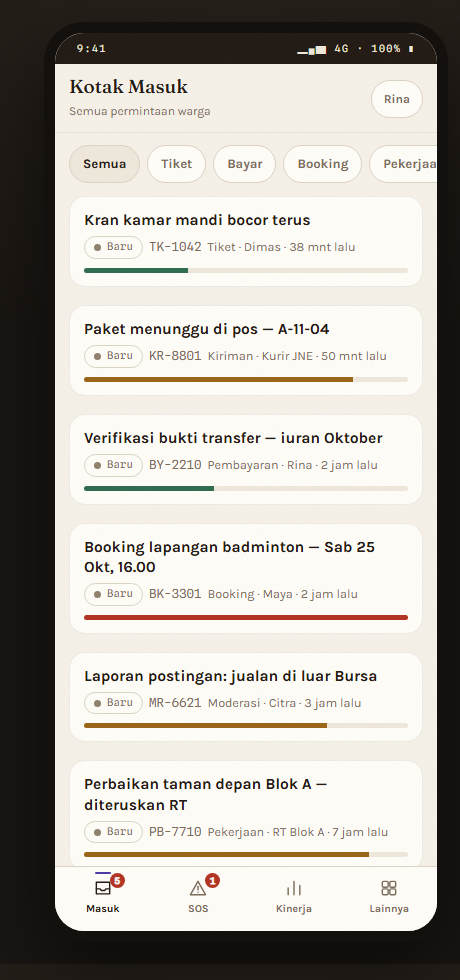
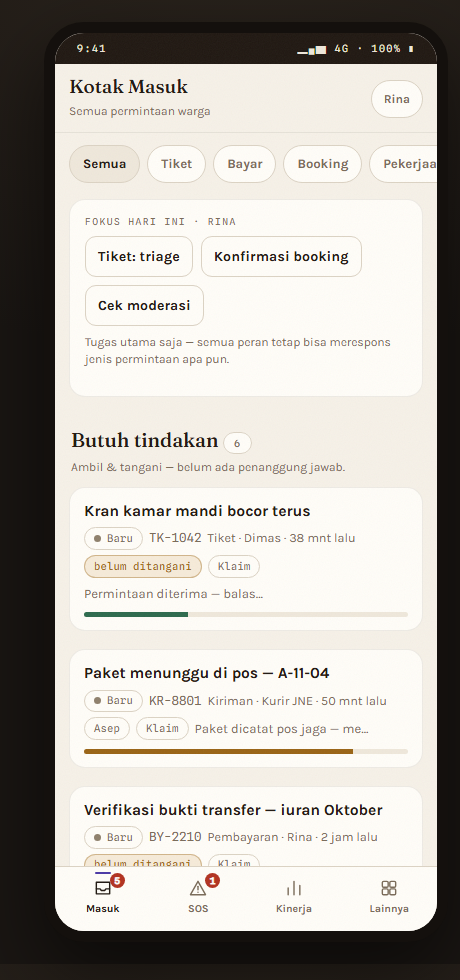
Inbox actionable/in-progress/info grouping, open cross-role response with PIC visibility, facility booking slot board + manual entry

Changed region(s): [[0.1826, 0.6735, 0.8826, 0.8878], [0.1522, 0.4286, 0.8826, 0.6429], [0.1826, 0.2143, 0.8826, 0.398]]

diff --git a/puri_console.html b/puri_console.html
@@ -94,6 +94,12 @@ nav.tabs .b{position:absolute;top:1px;right:calc(50% - 22px);background:var(--ba
 .worksw{display:flex;gap:8px;margin-top:6px}
 .worksw button{flex:1;background:var(--surf);border:1px solid var(--line);color:var(--mut);border-radius:11px;padding:10px 8px;font-weight:600;font-size:13.5px}
 .worksw button.on{background:var(--p);border-color:var(--p);color:#fff}
+.slot{flex:1;min-width:62px;background:var(--surf);border:1px solid var(--line);border-radius:11px;padding:8px 4px;font-family:var(--mono);font-size:11px;color:var(--txt);display:flex;flex-direction:column;gap:2px;align-items:center}
+.slot small{font-size:9.5px;color:var(--mut);max-width:66px;overflow:hidden;text-overflow:ellipsis;white-space:nowrap}
+.slot.ok{border-color:rgba(46,107,78,.45);background:var(--chipst)}
+.slot.wait{border-color:rgba(154,100,21,.45);background:var(--chipwarn)}
+.slot.done{opacity:.55}
+.slot.free{color:var(--mut);border-style:dashed}
 </style>
 </head>
 <body>
@@ -121,6 +127,13 @@ const CANNED=[
  ['Booking','Slot Anda kami konfirmasi. Harap menjaga kebersihan dan mengembalikan peralatan (demo).'],
  ['Laporan','Terima kasih. Lokasi sudah dicek petugas dan perbaikan dijadwalkan pekan ini (demo).'],
  ['Moderasi','Postingan diturunkan karena melanggar aturan komunitas: jual-beli hanya di Bursa (demo).']];
+const FACILITIES=[{id:'lap1',name:'Lapangan badminton 1'},{id:'lap2',name:'Lapangan badminton 2'},{id:'serba',name:'Ruang serbaguna'}];
+function seedSlots(){return[
+ {f:'lap1',t:'15.00',who:'Rian — B-10-05',id:'BK-3298',state:'baru'},
+ {f:'lap1',t:'16.00',who:'Maya — B-11-05',id:'BK-3301',state:'baru'},
+ {f:'lap1',t:'18.00',who:'Dimas — A-11-04',id:'BK-3295',state:'konfirmasi'},
+ {f:'lap2',t:'19.00',who:'Tia — B-10-05',id:'BK-3290',state:'konfirmasi'},
+ {f:'serba',t:'19.00',who:'RT Blok A',id:'BK-3287',state:'konfirmasi'}];}
 function seed(){
  const T=NOW0;
  return {v:1,ws:'A',role:'cs',prop:'Puri',
@@ -175,11 +188,13 @@ function seed(){
   {id:'PT-28',title:'Rak sepeda dekat lift Blok C',phase:'Proyek · dikerjakan',prog:'Tahap 2 dari 3 — pemasangan rangka',up:T-9*24*H},
   {id:'PT-24',title:'Penambahan CCTV parkir basement',phase:'Usulan baru',prog:'Fase 1 — tanda tangan 41/60 unit',up:T-2*24*H}
  ],
+ slots:seedSlots(),
  logs:[]
  };
 }
-function load(){try{const r=JSON.parse(localStorage.getItem('puri_console_v2'));if(r&&r.v===1&&r.reqs)return r;}catch(_){}return null;}
+function load(){try{const r=JSON.parse(localStorage.getItem('puri_console_v2'));if(r&&r.v===1&&r.reqs){if(!r.slots)r.slots=seedSlots();return r;}}catch(_){}return null;}
 let S=load()||seed();
+const slotFor=id=>(S.slots||[]).find(s=>s.id===id);
 const save=()=>localStorage.setItem('puri_console_v2',JSON.stringify(S));
 
 const TYPELBL={tiket:'Tiket',bayar:'Pembayaran',booking:'Booking',laporan:'Laporan',pekerjaan:'Pekerjaan',moderasi:'Moderasi',kiriman:'Kiriman'};
@@ -234,28 +249,65 @@ function listFor(f){
  return list;
 }
 function itemHtml(r){
- return '<button class="item" data-item="'+r.id+'"><div class="t1">'+esc(r.title)+'</div><div class="t2">'+stChip(r.state)+'<span class="mono">'+r.id+'</span><span>'+esc((TYPELBL[r.type]||'')+(r.from?' · '+r.from:''))+' · '+ago(r.created)+'</span></div>'+slaBar(r)+'</button>';
+ const pic=r.assignee?r.assignee.split(' — ')[0]:null;
+ const mine=!!pic&&meName().indexOf(pic)===0;
+ const step=r.state==='baru'?'Klaim':(/ditugaskan|dikerjakan|ditangani|diterima/.test(r.state)?'Lanjutkan':(r.state==='konfirmasi'?'Pantau jadwal':(r.state==='selesai'?'Tunggu warga':(r.state==='diteruskan'?'Dipantau pengelola':'Lihat'))));
+ const last=r.tl&&r.tl.length?r.tl[r.tl.length-1].x:'';
+ let h='<button class="item" data-item="'+r.id+'"><div class="t1">'+esc(r.title)+'</div><div class="t2">'+stChip(r.state)+'<span class="mono">'+r.id+'</span><span>'+esc((TYPELBL[r.type]||'')+(r.from?' · '+r.from:''))+' · '+ago(r.created)+'</span></div>';
+ h+='<div class="t2" style="margin-top:5px">'+(pic?'<span class="chip'+(mine?' acc':'')+'">'+esc(pic)+(mine?' (Anda)':'')+'</span>':'<span class="chip warn">belum ditangani</span>')+'<span class="chip">'+step+'</span>'+(last?'<small class="sub" style="margin:0;max-width:180px;white-space:nowrap;overflow:hidden;text-overflow:ellipsis">'+esc(last)+'</small>':'')+'</div>'+slaBar(r)+'</button>';
+ return h;
+}
+const GROUPS=[['act','Butuh tindakan','Ambil &amp; tangani — belum ada penanggung jawab.'],['run','Sedang ditangani','Lihat siapa yang merespons — semua peran boleh ikut membantu.'],['info','Info &amp; pantauan','Booking terkonfirmasi, kegiatan &amp; olahraga, dan yang menunggu warga.']];
+function groupOf(r){if(r.state==='baru')return'act';if(/ditugaskan|dikerjakan|ditangani|diterima/.test(r.state))return'run';return'info';}
+function infoItemHtml(a){return '<button class="item" data-go="t-kegiatan"><div class="t1">'+esc(a.title)+'</div><div class="t2"><span class="chip acc">Info · '+esc(a.type)+'</span><span class="mono">'+a.id+'</span><span>'+esc(a.when)+' · '+a.joined+'/'+a.quota+' peserta</span></div><div class="t2" style="margin-top:5px"><span class="chip">Tanpa tindakan</span><small class="sub" style="margin:0">Kelola di tab Kegiatan</small></div></button>';}
+function fokusHtml(){
+ const A={cs:[['i-tiket','Tiket: triage'],['i-booking','Konfirmasi booking'],['i-moderasi','Cek moderasi']],
+ tek:[['i-tiket','Tiket teknisi'],['i-pekerjaan','Pekerjaan fasilitas']],
+ pos:[['i-sos','SOS aktif'],['i-kiriman','Kiriman & tamu'],['i-booking','Jadwal fasilitas']],
+ keu:[['i-bayar','Verifikasi bayar']],mod:[['i-moderasi','Laporan komunitas']],
+ rt:[['t-lapor','Laporan baru'],['t-kerja','Kerja bakti'],['t-kegiatan','Kegiatan']],
+ rw:[['t-lapor','Laporan baru'],['t-petisi','Petisi & proyek'],['t-umum','Pengumuman']]};
+ const list=A[S.role]||A.cs;
+ return '<div class="card"><span class="eyebrow">Fokus hari ini · '+esc(meName().split(' — ')[0])+'</span><div class="row" style="margin-top:7px">'+list.map(x=>'<button class="btn ghost sm" data-f="'+x[0]+'">'+x[1]+'</button>').join('')+'</div><p class="honest">Tugas utama saja — semua peran tetap bisa merespons jenis permintaan apa pun.</p></div>';
 }
 function renderList(route){
  const f=FILT[route]||'all',T=TITLES[route]||['Daftar',''];
  const showBack=(route!=='i-inbox'&&route!=='t-lapor');
+ const grouped=(route==='i-inbox'||route==='t-lapor');
  let h=headHtml(T[0],T[1],{back:showBack});
  if(route==='i-inbox'){
   const opts=[['i-inbox','Semua'],['i-tiket','Tiket'],['i-bayar','Bayar'],['i-booking','Booking'],['i-pekerjaan','Pekerjaan'],['i-moderasi','Moderasi'],['i-kiriman','Kiriman']];
   h+='<div class="fchips">'+opts.map(o=>'<button class="'+(o[0]==='i-inbox'?'on':'')+'" data-f="'+o[0]+'">'+o[1]+'</button>').join('')+'</div>';
  }
+ if(route==='i-inbox'||(route==='t-lapor'&&S.ws==='B'))h+=fokusHtml();
  const list=listFor(f);
- h+=list.length?list.map(itemHtml).join(''):'<div class="empty">Tidak ada permintaan untuk filter ini.</div>';
+ if(grouped){
+  GROUPS.forEach(g=>{
+   const items=list.filter(r=>groupOf(r)===g[0]);
+   if(!items.length&&g[0]!=='act')return;
+   h+='<h2 class="sec">'+g[1]+' <span class="pill">'+items.length+'</span></h2><p class="honest" style="margin:0 16px 2px">'+g[2]+'</p>';
+   h+=items.length?items.map(itemHtml).join(''):'<div class="empty">Tidak ada yang menunggu — antrean bersih.</div>';
+   if(g[0]==='info'&&route==='i-inbox'){
+    const up=S.acts.filter(a=>a.state==='terbit');
+    if(up.length)h+=up.map(infoItemHtml).join('');
+   }
+  });
+ }else{
+  h+=list.length?list.map(itemHtml).join(''):'<div class="empty">Tidak ada permintaan untuk filter ini.</div>';
+ }
  $('#view').innerHTML=h;
  bindHead('i-lain');
  $$('#view [data-item]').forEach(b=>b.onclick=()=>go('d-'+b.dataset.item));
  $$('#view [data-f]').forEach(b=>b.onclick=()=>go(b.dataset.f));
+ $$('#view [data-go]').forEach(b=>b.onclick=()=>go(b.dataset.go));
 }
 function detailBody(r){
  const chips='<div class="row">'+stChip(r.state)+prioChip(r.prio)+(r.amount?'<span class="chip mono">Rp '+r.amount.toLocaleString('id-ID')+'</span>':'')+(r.cat?'<span class="chip">'+esc(r.cat)+'</span>':'')+(r.assignee?'<span class="chip acc">PIC: '+esc(r.assignee)+'</span>':'')+(r.csat?'<span class="chip good">CSAT '+r.csat+'/5</span>':'')+'</div>';
- let h='<div class="card"><div class="row"><span class="eyebrow">'+esc(TYPELBL[r.type]||r.type)+' · '+r.id+'</span></div><h3 style="margin-top:4px">'+esc(r.title)+'</h3><p class="sub">'+esc((r.from||'')+(r.unit?' · '+r.unit:''))+' · '+ago(r.created)+'</p>'+chips+slaBar(r)+'<p style="margin:10px 0 0">'+esc(r.desc||'')+'</p></div>';
- h+='<div class="card"><h3>Riwayat</h3><div class="tl">'+r.tl.slice().reverse().map(e=>'<div class="ev"><span class="d7 n"></span><div><div>'+esc(e.x)+'</div><small>'+esc(e.by)+' · '+fmtT(e.t)+'</small></div></div>').join('')+'</div></div>';
+ const handle=r.assignee?'Ditangani oleh <b>'+esc(r.assignee)+'</b>'+(r.assignee===meName()?' (Anda)':''):'<b>Belum ada yang menangani</b>';
+ let h='<div class="card"><div class="row"><span class="eyebrow">'+esc(TYPELBL[r.type]||r.type)+' · '+r.id+'</span></div><h3 style="margin-top:4px">'+esc(r.title)+'</h3><p class="sub">'+esc((r.from||'')+(r.unit?' · '+r.unit:''))+' · '+ago(r.created)+'</p>'+chips+slaBar(r)+'<p class="sub" style="margin-top:8px">'+handle+' — semua peran bisa merespons &amp; ikut membantu (demo).</p><p style="margin:10px 0 0">'+esc(r.desc||'')+'</p></div>';
+ h+='<div class="card"><h3>Riwayat</h3><div class="tl">'+r.tl.slice().reverse().map(e=>{const own=e.by===meName();return '<div class="ev"><span class="d7 '+(own?'b':'n')+'"></span><div><div>'+esc(e.x)+'</div><small>'+esc(own?'Anda · '+e.by:e.by)+' · '+fmtT(e.t)+'</small></div></div>';}).join('')+'</div></div>';
  h+='<div class="card"><h3>Balas & tindakan</h3><div class="acts">'+actsHtml(r)+'</div></div>';
+ h+='<div class="card"><h3>Tanggapi thread</h3><textarea class="inp" id="note2" placeholder="Pembaruan singkat untuk tim &amp; warga (demo)"></textarea><button class="btn pri" style="margin-top:10px;width:100%" data-a="noteup">Tambah pembaruan sebagai '+esc(meName().split(' — ')[0])+'</button><p class="honest">Tercatat di riwayat dan terlihat semua tim — respons tidak dikunci per peran.</p></div>';
  return h;
 }
 function actsHtml(r){
@@ -273,7 +325,8 @@ function actsHtml(r){
   }
   case 'booking':{
    if(r.state==='baru')return '<div class="row"><button class="btn pri grow" data-a="bkok">Konfirmasi slot</button><button class="btn ghost grow" data-a="bkno">Tolak / tawarkan lain</button></div>'+cannedHtml(false);
-   return '<p class="sub">Booking '+(r.state==='konfirmasi'?'terkonfirmasi dan terkirim ke warga (demo).':'ditolak dengan catatan.')+'</p>'+cannedHtml(false);
+   if(r.state==='konfirmasi')return '<button class="btn ghost" style="width:100%" data-a="bkdone">Tandai pemakaian selesai</button>'+cannedHtml(false);
+   return '<p class="sub">Booking '+(r.state==='selesai'?'selesai dipakai — slot kembali tersedia (demo).':'ditolak dengan catatan.')+'</p>'+cannedHtml(false);
   }
   case 'moderasi':{
    if(r.state==='baru')return '<button class="btn pri" style="width:100%" data-a="moddel">Hapus + alasan aturan</button><div class="row" style="margin-top:8px"><button class="btn ghost grow" data-a="modwarn">Tegur penulis</button><button class="btn ghost grow" data-a="modskip">Abaikan</button></div>'+cannedHtml(false);
@@ -305,7 +358,7 @@ function renderDetail(id){
  const backTo=(BACK&&BACK!==VH&&!BACK.startsWith('d-'))?BACK:(r.type==='laporan'?'t-lapor':'i-inbox');
  $('#view').innerHTML=headHtml('Detail permintaan','',{back:true})+detailBody(r);
  bindHead(backTo);
- $$('#view .acts [data-a]').forEach(b=>b.onclick=()=>doReqAct(r,b.dataset.a));
+ $$('#view [data-a]').forEach(b=>b.onclick=()=>doReqAct(r,b.dataset.a));
 }
 function doReqAct(r,a){
  const me=meName(),note=(($('#note')||{}).value||'').trim();
@@ -316,8 +369,10 @@ function doReqAct(r,a){
   case 'close':r.state='ditutup';addTl(r,'Sistem','Ditutup oleh petugas setelah 48 jam tanpa respons warga (demo).');break;
   case 'payok':r.state='selesai';addTl(r,'Sari — Keuangan','Approve — status Lunas, kuitansi terkirim (demo).');break;
   case 'payno':if(!note){toast('Isi alasan penolakan dulu.');return;}r.state='ditolak';addTl(r,'Sari — Keuangan','Ditolak: '+note);break;
-  case 'bkok':r.state='konfirmasi';addTl(r,me,'Slot dikonfirmasi & terkirim ke warga (demo).');break;
-  case 'bkno':r.state='ditolak';addTl(r,me,'Ditolak / tawaran slot lain dikirim (demo).');break;
+  case 'bkok':r.state='konfirmasi';{const sl=slotFor(r.id);if(sl)sl.state='konfirmasi';}addTl(r,me,'Slot dikonfirmasi & terkirim ke warga (demo).');break;
+  case 'bkno':r.state='ditolak';{const sl=slotFor(r.id);if(sl)sl.state='batal';}addTl(r,me,'Ditolak / tawaran slot lain dikirim (demo).');break;
+  case 'bkdone':r.state='selesai';{const sl=slotFor(r.id);if(sl)sl.state='selesai';}addTl(r,me,'Pemakaian selesai — fasilitas siap untuk slot berikutnya (demo).');break;
+  case 'noteup':{const v=((($('#note2')||{}).value)||'').trim();if(!v){toast('Tulis pembaruan dulu.');return;}addTl(r,me,'Pembaruan: '+v);toast('Pembaruan tercatat & terlihat tim (demo).');break;}
   case 'moddel':r.state='dihapus';addTl(r,'Citra — Moderator','Postingan dihapus — aturan: jual-beli hanya di Bursa (demo).');break;
   case 'modwarn':r.state='ditegur';addTl(r,'Citra — Moderator','Penulis ditegur via pesan sistem (demo).');break;
   case 'modskip':r.state='diabaikan';addTl(r,'Citra — Moderator','Laporan diabaikan — tidak melanggar aturan.');break;
@@ -398,6 +453,48 @@ function renderLain(){
  bindHead(S.ws==='A'?'i-inbox':'t-lapor');
  bindProfile();
  $$('#view .menu a').forEach(a=>a.onclick=e=>{e.preventDefault();go(a.getAttribute('href').slice(1));});
+}
+/* ---------- booking fasilitas ---------- */
+const BKTIMES=['15.00','16.00','17.00','18.00','19.00','20.00'];
+function renderBooking(){
+ const live=S.slots.filter(s=>s.state!=='batal');
+ const pend=S.reqs.filter(r=>r.type==='booking'&&r.state==='baru');
+ let h=headHtml('Booking fasilitas','Kelola slot & konfirmasi',{back:true});
+ h+='<div class="card"><div class="row"><span class="eyebrow">Jadwal hari ini</span><span class="pill">'+live.length+' slot terisi</span></div>';
+ FACILITIES.forEach(f=>{
+  const slots=live.filter(s=>s.f===f.id);
+  h+='<div style="margin-top:12px"><b style="font-size:14.5px">'+esc(f.name)+'</b><div class="row" style="margin-top:6px">';
+  BKTIMES.forEach(t=>{
+   const s=slots.find(x=>x.t===t);
+   if(s)h+='<button class="slot '+(s.state==='konfirmasi'?'ok':s.state==='selesai'?'done':'wait')+'" data-slot="'+esc(s.id)+'">'+t+'<small>'+esc(s.who.split(' — ')[0])+'</small></button>';
+   else h+='<button class="slot free" data-manual="'+f.id+':'+t+'">'+t+'<small>kosong</small></button>';
+  });
+  h+='</div></div>';
+ });
+ h+='<p class="honest">Ketuk slot terisi untuk membuka permintaan; slot kosong untuk mencatat booking manual lewat telepon/loket. Pos jaga melihat jadwal ini untuk akses fasilitas.</p></div>';
+ if(pend.length){h+='<h2 class="sec">Menunggu konfirmasi <span class="pill">'+pend.length+'</span></h2>'+pend.map(itemHtml).join('');}
+ h+='<div class="card"><h3>＋ Catat booking manual</h3><label class="fl">Fasilitas</label><select class="inp" id="bfac">'+FACILITIES.map(f=>'<option value="'+f.id+'">'+esc(f.name)+'</option>').join('')+'</select><div class="row" style="margin-top:2px"><div class="grow"><label class="fl">Jam</label><select class="inp" id="btim">'+BKTIMES.map(t=>'<option>'+t+'</option>').join('')+'</select></div><div class="grow"><label class="fl">Nama / unit</label><input class="inp" id="bwho" placeholder="cth. Bu Sari — C-02-01"></div></div><button class="btn pri" style="margin-top:12px;width:100%" id="bgo">Catat &amp; konfirmasi slot</button><p class="honest">Untuk booking lewat telepon/loket — langsung tercatat terkonfirmasi (demo).</p></div>';
+ $('#view').innerHTML=h;
+ bindHead('i-lain');
+ $$('#view [data-item]').forEach(b=>b.onclick=()=>go('d-'+b.dataset.item));
+ $$('#view [data-slot]').forEach(b=>b.onclick=()=>{
+  const s=S.slots.find(x=>x.id===b.dataset.slot)||{id:'?',who:'',state:''};
+  if(getReq(s.id))go('d-'+s.id);
+  else toast(s.id+' · '+s.who+' · '+(s.state==='konfirmasi'?'terkonfirmasi':'menunggu konfirmasi')+' (demo).');
+ });
+ $$('#view [data-manual]').forEach(b=>b.onclick=()=>{
+  const p=b.dataset.manual.split(':');
+  $('#bfac').value=p[0];$('#btim').value=p[1];$('#bwho').focus();
+  toast('Slot kosong dipilih — isi nama lalu catat (demo).');
+ });
+ $('#bgo').onclick=()=>{
+  const f=$('#bfac').value,t=$('#btim').value,who=$('#bwho').value.trim()||'Walk-in (loket)';
+  if(S.slots.find(s=>s.f===f&&s.t===t&&s.state!=='batal')){toast('Slot sudah terisi — pilih jam lain.');return;}
+  const id='BK-'+(3320+S.slots.length);
+  S.slots.push({f:f,t:t,who:who,id:id,state:'konfirmasi'});
+  S.reqs.unshift({id:id,type:'booking',prio:'normal',from:who,unit:'Loket pengelola',title:'Booking '+FACILITIES.find(x=>x.id===f).name+' — '+t+' (manual)',desc:'Dicatat manual oleh '+meName()+' untuk booking telepon/loket (demo).',state:'konfirmasi',assignee:meName(),created:Date.now(),sla:120,csat:null,tl:[{t:Date.now(),by:meName(),x:'Booking manual dicatat & slot dikonfirmasi (demo).'}]});
+  save();toast('Slot '+t+' tercatat & terkonfirmasi (demo).');render();
+ };
 }
 /* ---------- pengaturan A & B ---------- */
 function renderSet(){
@@ -498,6 +595,7 @@ function render(){
   if(ch)save();
   renderTabs();
   if(VH.startsWith('d-'))renderDetail(VH.slice(2));
+  else if(VH==='i-booking')renderBooking();
   else if(Object.prototype.hasOwnProperty.call(FILT,VH))renderList(VH);
   else if(VH==='i-sos')renderSos();
   else if(VH==='i-kinerja')renderKin();

diff --git a/index.html b/index.html
@@ -72,7 +72,7 @@ kbd{font-family:"Spline Sans Mono",monospace;font-size:12px;border:1px solid var
       <div class="body">
         <div class="eyebrow">Permukaan 2 · Mobile</div>
         <h2>Operator App</h2>
-        <p>Aplikasi mobile pengelola &amp; tata kelola RT–RW: kotak masuk, tiket &amp; SOS pos jaga, verifikasi bayar, laporan warga → pekerjaan, kerja bakti, kegiatan, pengumuman, moderasi.</p>
+        <p>Aplikasi mobile pengelola &amp; tata kelola RT–RW: kotak masuk dengan prioritas tindakan (butuh tindakan / sedang ditangani / info &amp; pantauan), tiket &amp; SOS pos jaga, verifikasi bayar, jadwal booking fasilitas, laporan warga → pekerjaan, kerja bakti, kegiatan, pengumuman, moderasi. Respons lintas peran — siapa pun bisa mengambil &amp; menanggapi.</p>
         <div class="meta"><span class="chip acc">demo puri_console</span><span class="chip">2 workspace · 18 rute</span><span class="chip good">21/21 diuji headless</span></div>
         <div class="btnrow"><a class="btn" href="puri_console.html">Buka operator app</a></div>
       </div>
